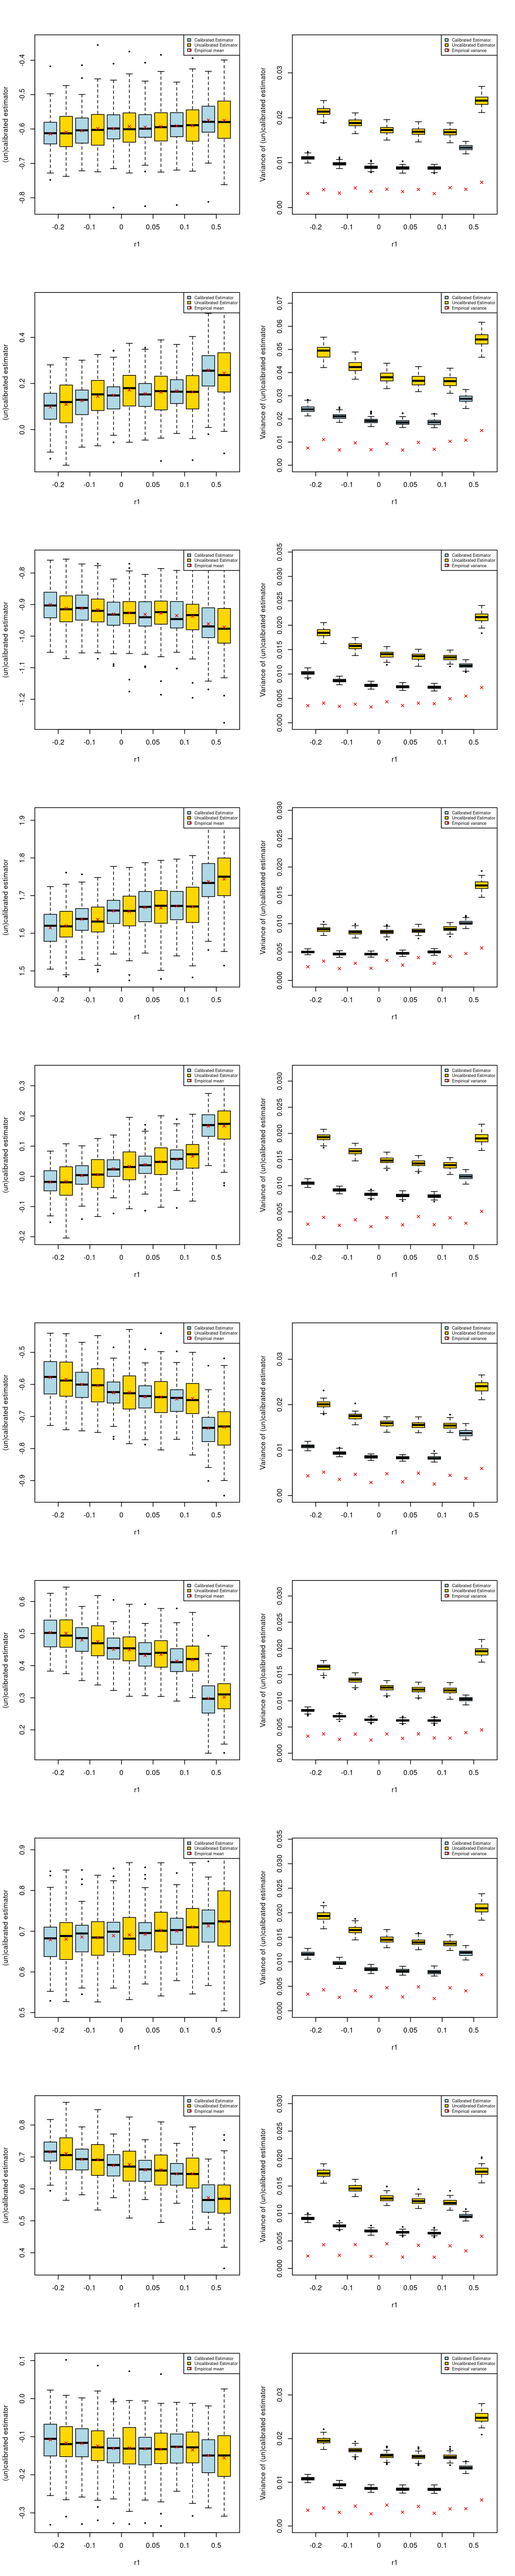
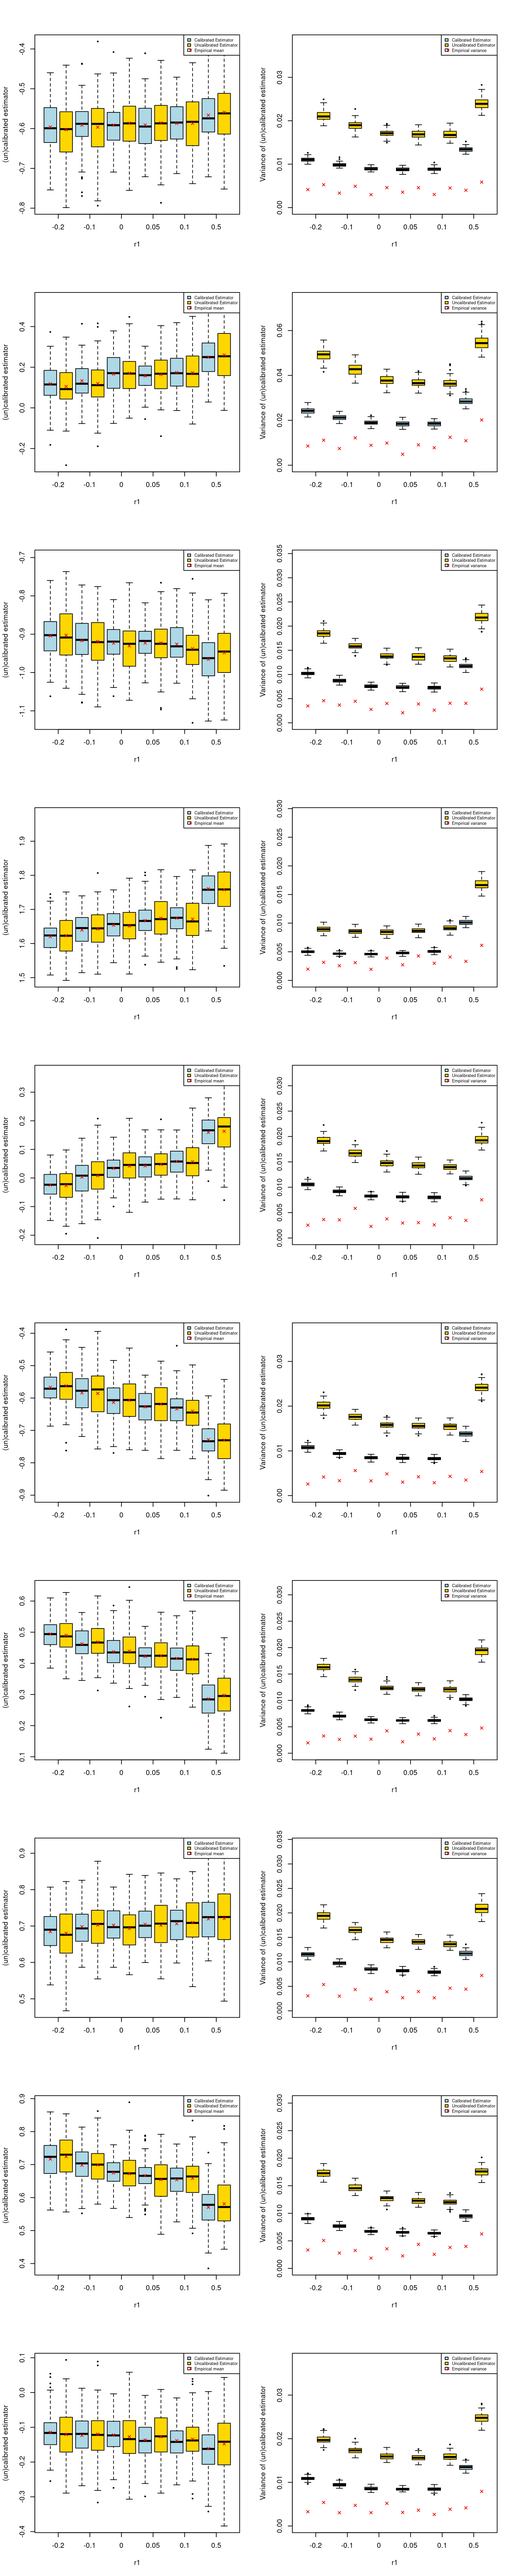
Build site.

diff --git a/docs/ukb_calibration.html b/docs/ukb_calibration.html
@@ -549,15 +549,15 @@ data/simulation202401/res.rds
 <div class="panel panel-default">
 <div class="panel-heading">
 <p class="panel-title">
-<a data-toggle="collapse" data-parent="#workflowr-checks" href="#strongRepositoryversionstrongahrefhttpsgithubcomyunqiyang0215simulationcalibratedmrtree0df308988b718faf7fb7c1ccf64821b8402b9214targetblank0df3089a">
+<a data-toggle="collapse" data-parent="#workflowr-checks" href="#strongRepositoryversionstrongahrefhttpsgithubcomyunqiyang0215simulationcalibratedmrtree30ae8748d4ddb8b93ddeef36fdb0cb225095d3cetargetblank30ae874a">
 <span class="glyphicon glyphicon-ok text-success"
 aria-hidden="true"></span> <strong>Repository version:</strong>
-<a href="https://github.com/yunqiyang0215/simulation-calibrated-mr/tree/0df308988b718faf7fb7c1ccf64821b8402b9214" target="_blank">0df3089</a>
+<a href="https://github.com/yunqiyang0215/simulation-calibrated-mr/tree/30ae8748d4ddb8b93ddeef36fdb0cb225095d3ce" target="_blank">30ae874</a>
 </a>
 </p>
 </div>
 <div
[2 lines of base64/hex data omitted]
 class="panel-collapse collapse">
 <div class="panel-body">
 <p>
@@ -567,7 +567,7 @@ reproducibility.
 </p>
 <p>
 The results in this page were generated with repository version
-<a href="https://github.com/yunqiyang0215/simulation-calibrated-mr/tree/0df308988b718faf7fb7c1ccf64821b8402b9214" target="_blank">0df3089</a>.
+<a href="https://github.com/yunqiyang0215/simulation-calibrated-mr/tree/30ae8748d4ddb8b93ddeef36fdb0cb225095d3ce" target="_blank">30ae874</a>.
 See the <em>Past versions</em> tab to see a history of the changes made
 to the R Markdown and HTML files.
 </p>
@@ -629,6 +629,40 @@ Message
 </tr>
 </thead>
 <tbody>
+<tr>
+<td>
+Rmd
+</td>
+<td>
+<a href="https://github.com/yunqiyang0215/simulation-calibrated-mr/blob/30ae8748d4ddb8b93ddeef36fdb0cb225095d3ce/analysis/ukb_calibration.Rmd" target="_blank">30ae874</a>
+</td>
+<td>
+yunqi yang
+</td>
+<td>
+2024-02-01
+</td>
+<td>
+wflow_publish("analysis/ukb_calibration.Rmd")
+</td>
+</tr>
+<tr>
+<td>
+html
+</td>
+<td>
+<a href="https://rawcdn.githack.com/yunqiyang0215/simulation-calibrated-mr/cc3ea41d9abfc38c4adbd03edf59707530dac00a/docs/ukb_calibration.html" target="_blank">cc3ea41</a>
+</td>
+<td>
+yunqi yang
+</td>
+<td>
+2024-02-01
+</td>
+<td>
+Build site.
+</td>
+</tr>
 <tr>
 <td>
 Rmd
@@ -1119,27 +1153,27 @@ Y_1 &amp;= Tb + r_1(Y^m+Y^f) + \epsilon\\
 Y_2 &amp;= \beta Y_1 + r_2(Y^m + Y^f) + \epsilon
 \end{split}
 \]</span></p>
-<pre class="r"><code>set.seed(1)
-p = 10
-b = matrix(rnorm(p, sd = 1), ncol = 1, nrow = p)
-bp = matrix(rnorm(p, sd = 1), ncol = 1, nrow = p)</code></pre>
-<pre class="r"><code>res1 = readRDS(&quot;/project2/mstephens/yunqiyang/calibrated_mr/simulation-calibrated-mr/data/simulation202401/res.rds&quot;) # previous simulation result
-res2 = readRDS(&quot;/project2/mstephens/yunqiyang/calibrated_mr/sim202401/res.rds&quot;) # current result
-res.Y1 = res1[[1]]
-res2.Y1 = res2[[1]]</code></pre>
+<pre class="r"><code>#res1 = readRDS(&quot;/project2/mstephens/yunqiyang/calibrated_mr/simulation-calibrated-mr/data/simulation202401/res.rds&quot;) # previous simulation result
+res = readRDS(&quot;/project2/mstephens/yunqiyang/calibrated_mr/sim202401/res.rds&quot;) # current result
+res.Y1 = res[[1]]</code></pre>
 <pre class="r"><code>combine_single_snp_stat = function(cond_indx, snp_indx, data.list, column_names){
   res = lapply(cond_indx, function(ind) data.list[[ind]][snp_indx, column_names])
   dat_combined = do.call(rbind, res)
   return(dat_combined)
 }</code></pre>
 </div>
-<div id="previous-simulation-results" class="section level3">
-<h3>1. Previous simulation results</h3>
+<div id="multiple-effects" class="section level3">
+<h3>1. Multiple effects:</h3>
+<pre class="r"><code>set.seed(1)
+p = 10
+b = matrix(rnorm(p, sd = 1), ncol = 1, nrow = p)
+bp = matrix(rnorm(p, sd = 1), ncol = 1, nrow = p)</code></pre>
 <pre class="r"><code>par(mfrow = c(10,2))
 r1 = unique(res.Y1$sim_data.r1)
 p = 10
+
 for (i in 1:p){
-  snp_dat_list = lapply(1:length(r1), function(k) combine_single_snp_stat(which(res.Y1$sim_data.r1 == r1[k]), i, data.list =res.Y1$calibration.Y1_cali, column_names = c(&quot;tau_cal&quot;, &quot;tau_raw&quot;)))
+  snp_dat_list = lapply(1:length(r1), function(k) combine_single_snp_stat(which(res.Y1$sim_data.r1 == r1[k] &amp; res.Y1$sim_effect.effect_type == &quot;multiple&quot;), i, data.list =res.Y1$calibration.Y1_cali, column_names = c(&quot;tau_cal&quot;, &quot;tau_raw&quot;)))
 
   dat_estimator &lt;- do.call(cbind, snp_dat_list)
   colors &lt;- rep(c(&quot;lightblue&quot;, &quot;gold1&quot;), length.out = ncol(dat_estimator))
@@ -1163,13 +1197,15 @@ for (i in 1:p){
   
   ### Plot variance
   empirical_var = apply(dat_estimator, 2, var)
-  snp_dat_list = lapply(1:length(r1), function(k) combine_single_snp_stat(which(res.Y1$sim_data.r1 == r1[k]), i, data.list =res.Y1$calibration.Y1_cali, column_names = c(&quot;var_tau_cal&quot;, &quot;var_tau_raw&quot;)))
+  snp_dat_list = lapply(1:length(r1), function(k) combine_single_snp_stat(which(res.Y1$sim_data.r1 == r1[k] &amp; res.Y1$sim_effect.effect_type == &quot;multiple&quot;), i, data.list =res.Y1$calibration.Y1_cali, column_names = c(&quot;var_tau_cal&quot;, &quot;var_tau_raw&quot;)))
+  
+  
   dat_estimator_var &lt;- do.call(cbind, snp_dat_list)
     
   colors &lt;- rep(c(&quot;lightblue&quot;, &quot;gold1&quot;), length.out = ncol(dat_estimator_var))
   boxplot(dat_estimator_var,
           #main = paste0(&quot;Exposure trait, r1=&quot;, r1[k]),
-          ylim = c(0, max(dat_estimator_var) + 0.01),
+          ylim = c(0, max(dat_estimator_var)+0.01),
           xlab = &quot;r1&quot;,
           ylab = &quot;Variance of (un)calibrated estimator&quot;,
           col = colors,
@@ -1211,6 +1247,17 @@ Date
 <tbody>
 <tr>
 <td>
+<a href="https://github.com/yunqiyang0215/simulation-calibrated-mr/blob/cc3ea41d9abfc38c4adbd03edf59707530dac00a/docs/figure/ukb_calibration.Rmd/unnamed-chunk-4-1.png" target="_blank">cc3ea41</a>
+</td>
+<td>
+yunqi yang
+</td>
+<td>
+2024-02-01
+</td>
+</tr>
+<tr>
+<td>
 <a href="https://github.com/yunqiyang0215/simulation-calibrated-mr/blob/f71295dcde89f3cba7525a47443430e3f0c51c50/docs/figure/ukb_calibration.Rmd/unnamed-chunk-4-1.png" target="_blank">f71295d</a>
 </td>
 <td>
@@ -1247,19 +1294,17 @@ yunqiyang0215
 </div>
 </div>
 </div>
-<div id="current-simulation-results" class="section level3">
-<h3>2. Current simulation results</h3>
-<div id="multiple-effects" class="section level4">
-<h4>2.1 Multiple effects:</h4>
+<div id="single-effect" class="section level3">
+<h3>2. Single effect:</h3>
 <pre class="r"><code>set.seed(1)
-p = 10
-b = matrix(rnorm(p, sd = 1), ncol = 1, nrow = p)
-bp = matrix(rnorm(p, sd = 1), ncol = 1, nrow = p)</code></pre>
+b = bp = matrix(rep(0, p), ncol = 1, nrow = p)
+b[1,1] = rnorm(1)
+bp[1,1] = rnorm(1)</code></pre>
 <pre class="r"><code>par(mfrow = c(10,2))
-r1 = unique(res2.Y1$sim_data.r1)
+r1 = unique(res.Y1$sim_data.r1)
 
 for (i in 1:p){
-  snp_dat_list = lapply(1:length(r1), function(k) combine_single_snp_stat(which(res2.Y1$sim_data.r1 == r1[k] &amp; res2.Y1$sim_effect.effect_type == &quot;multiple&quot;), i, data.list =res2.Y1$calibration.Y1_cali, column_names = c(&quot;tau_cal&quot;, &quot;tau_raw&quot;)))
+  snp_dat_list = lapply(1:length(r1), function(k) combine_single_snp_stat(which(res.Y1$sim_data.r1 == r1[k] &amp; res.Y1$sim_effect.effect_type == &quot;single&quot;), i, data.list =res.Y1$calibration.Y1_cali, column_names = c(&quot;tau_cal&quot;, &quot;tau_raw&quot;)))
 
   dat_estimator &lt;- do.call(cbind, snp_dat_list)
   colors &lt;- rep(c(&quot;lightblue&quot;, &quot;gold1&quot;), length.out = ncol(dat_estimator))
@@ -1283,13 +1328,15 @@ for (i in 1:p){
   
   ### Plot variance
   empirical_var = apply(dat_estimator, 2, var)
-  snp_dat_list = lapply(1:length(r1), function(k) combine_single_snp_stat(which(res2.Y1$sim_data.r1 == r1[k] &amp; res2.Y1$sim_effect.effect_type == &quot;multiple&quot;), i, data.list =res2.Y1$calibration.Y1_cali, column_names = c(&quot;var_tau_cal&quot;, &quot;var_tau_raw&quot;)))
+  snp_dat_list = lapply(1:length(r1), function(k) combine_single_snp_stat(which(res.Y1$sim_data.r1 == r1[k] &amp; res.Y1$sim_effect.effect_type == &quot;single&quot;), i, data.list =res.Y1$calibration.Y1_cali, column_names = c(&quot;var_tau_cal&quot;, &quot;var_tau_raw&quot;)))
+  
+  
   dat_estimator_var &lt;- do.call(cbind, snp_dat_list)
     
   colors &lt;- rep(c(&quot;lightblue&quot;, &quot;gold1&quot;), length.out = ncol(dat_estimator_var))
   boxplot(dat_estimator_var,
           #main = paste0(&quot;Exposure trait, r1=&quot;, r1[k]),
-          ylim = c(0, 0.06),
+          ylim = c(0, max(dat_estimator_var)+0.01),
           xlab = &quot;r1&quot;,
           ylab = &quot;Variance of (un)calibrated estimator&quot;,
           col = colors,
@@ -1329,6 +1376,17 @@ Date
 </tr>
 </thead>
 <tbody>
+<tr>
+<td>
+<a href="https://github.com/yunqiyang0215/simulation-calibrated-mr/blob/cc3ea41d9abfc38c4adbd03edf59707530dac00a/docs/figure/ukb_calibration.Rmd/unnamed-chunk-6-1.png" target="_blank">cc3ea41</a>
+</td>
+<td>
+yunqi yang
+</td>
+<td>
+2024-02-01
+</td>
+</tr>
 <tr>
 <td>
 <a href="https://github.com/yunqiyang0215/simulation-calibrated-mr/blob/2c2f133aefb758099f4e24e8d4b0737f29316810/docs/figure/ukb_calibration.Rmd/unnamed-chunk-6-1.png" target="_blank">2c2f133</a>
@@ -1399,141 +1457,6 @@ yunqiyang0215
 </table>
 </div>
 </div>
-<pre class="r"><code>par(mfrow = c(10,2))
-r1 = unique(res2.Y1$sim_data.r1)
-
-for (i in 1:p){
-  snp_dat_list = lapply(1:length(r1), function(k) combine_single_snp_stat(which(res2.Y1$sim_data.r1 == r1[k] &amp; res2.Y1$sim_effect.effect_type == &quot;single&quot;), i, data.list =res2.Y1$calibration.Y1_cali, column_names = c(&quot;tau_cal&quot;, &quot;tau_raw&quot;)))
-
-  dat_estimator &lt;- do.call(cbind, snp_dat_list)
-  colors &lt;- rep(c(&quot;lightblue&quot;, &quot;gold1&quot;), length.out = ncol(dat_estimator))
-  boxplot(dat_estimator,
-          #main = paste0(&quot;Exposure trait, r1=&quot;, r1[k]),
-          xlab = &quot;r1&quot;,
-          ylab = &quot;(un)calibrated estimator&quot;,
-          col = colors,
-          outpch = 20, # This changes the outlier point type to solid circle
-          outcex = 0.5,
-          xaxt = &quot;n&quot;)
-  points(1:ncol(dat_estimator), colMeans(dat_estimator), pch = 4, cex = 0.8, col = &quot;red2&quot;)
-  legend(&quot;topright&quot;,
-       legend = c(&quot;Calibrated Estimator&quot;, &quot;Uncalibrated Estimator&quot;, &quot;Empirical mean&quot;),
-       fill = c(&quot;lightblue&quot;, &quot;gold1&quot;, NA),  
-       pch = c(NA, NA, 4),  
-       col = c(NA, NA, &quot;red2&quot;),  
-       cex = 0.6)  
-  axis(1, at=seq(1.5, by=2, length.out=length(r1)), labels=r1)
-
-  
-  ### Plot variance
-  empirical_var = apply(dat_estimator, 2, var)
-  snp_dat_list = lapply(1:length(r1), function(k) combine_single_snp_stat(which(res2.Y1$sim_data.r1 == r1[k] &amp; res2.Y1$sim_effect.effect_type == &quot;single&quot;), i, data.list =res2.Y1$calibration.Y1_cali, column_names = c(&quot;var_tau_cal&quot;, &quot;var_tau_raw&quot;)))
-  
-  
-  dat_estimator_var &lt;- do.call(cbind, snp_dat_list)
-    
-  colors &lt;- rep(c(&quot;lightblue&quot;, &quot;gold1&quot;), length.out = ncol(dat_estimator_var))
-  boxplot(dat_estimator_var,
-          #main = paste0(&quot;Exposure trait, r1=&quot;, r1[k]),
-          ylim = c(0, 0.06),
-          xlab = &quot;r1&quot;,
-          ylab = &quot;Variance of (un)calibrated estimator&quot;,
-          col = colors,
-          outpch = 20, 
-          outcex = 0.5,
-          xaxt = &quot;n&quot;)
-  points(1:ncol(dat_estimator_var), empirical_var, pch = 4, cex = 0.8, col = &quot;red2&quot;)
-  legend(&quot;topright&quot;,
-       legend = c(&quot;Calibrated Estimator&quot;, &quot;Uncalibrated Estimator&quot;, &quot;Empirical variance&quot;),
-       fill = c(&quot;lightblue&quot;, &quot;gold1&quot;, NA),  
-       pch = c(NA, NA, 4),  
-       col = c(NA, NA, &quot;red2&quot;),  
-       cex = 0.6)  
-  r_values &lt;- c(-0.20, -0.10, 0.00, 0.05, 0.10, 0.50) 
-  axis(1, at=seq(1.5, by=2, length.out=length(r1)), labels=r1)
-}</code></pre>
-<p><img src="figure/ukb_calibration.Rmd/unnamed-chunk-7-1.png" width="960" style="display: block; margin: auto;" /></p>
-<pre class="r"><code>par(mfrow = c(1,2))
-r1 = unique(res.Y1$sim_data.r1)
-for (k in 1:length(r1)){
-  cond_indx = which(res.Y1$sim_data.r1 == r1[k])
-  
-  ### Plot mean
-  snp_dat_list = lapply(1:p, function(i) 
-  
-  dat_estimator &lt;- do.call(cbind, snp_dat_list)
-  print(dat_estimator)
-  colors &lt;- rep(c(&quot;lightblue&quot;, &quot;gold1&quot;), length.out = ncol(dat_estimator))
-  boxplot(dat_estimator,
-          main = paste0(&quot;Exposure trait, r1=&quot;, r1[k]),
-          xlab = &quot;&quot;,
-          ylab = &quot;(un)calibrated estimator&quot;,
-          col = colors,
-          outpch = 20, # This changes the outlier point type to solid circle
-          outcex = 0.5,
-          xaxt = &quot;n&quot;)
-  # Add true b to plot
-  b.true &lt;- unlist(lapply(1:p, function(i) rep(b[i],2)))
-  empirical_var = apply(dat_estimator, 2, var)
-  points(1:ncol(dat_estimator), b.true, pch = 4, cex = 0.8, col = &quot;red2&quot;)
-  legend(&quot;topright&quot;,
-       legend = c(&quot;Calibrated Estimator&quot;, &quot;Uncalibrated Estimator&quot;, &quot;True effect size&quot;),
-       fill = c(&quot;lightblue&quot;, &quot;gold1&quot;, NA),  
-       pch = c(NA, NA, 4),  
-       col = c(NA, NA, &quot;red2&quot;),  
-       cex = 0.6)  
-
-# Plot variance
-  
-  ### Plot variance
-  snp_dat_list = lapply(1:p, function(i) combine_single_snp_stat(cond_indx, i, data.list =res.Y1$calibration.Y1_cali, column_names = c(&quot;var_tau_cal&quot;, &quot;var_tau_raw&quot;)))
-  dat_estimator_var &lt;- do.call(cbind, snp_dat_list)
-  
-  colors &lt;- rep(c(&quot;lightblue&quot;, &quot;gold1&quot;), length.out = ncol(dat_estimator_var))
-  boxplot(dat_estimator_var,
-          main = paste0(&quot;Exposure trait, r1=&quot;, r1[k]),
-          ylim = c(0, 0.06),
-          xlab = &quot;&quot;,
-          ylab = &quot;Variance of (un)calibrated estimator&quot;,
-          col = colors,
-          outpch = 20, 
-          outcex = 0.5,
-          xaxt = &quot;n&quot;)
-  points(1:ncol(dat_estimator_var), empirical_var, pch = 4, cex = 0.8, col = &quot;red2&quot;)
-  legend(&quot;topright&quot;,
-       legend = c(&quot;Calibrated Estimator&quot;, &quot;Uncalibrated Estimator&quot;, &quot;Empirical variance&quot;),
-       fill = c(&quot;lightblue&quot;, &quot;gold1&quot;, NA),  
-       pch = c(NA, NA, 4),  
-       col = c(NA, NA, &quot;red2&quot;),  
-       cex = 0.6)  
-}</code></pre>
-<pre class="r"><code>res = readRDS(&quot;./data/simulation202401/res.rds&quot;)
-
-r1 = c(-0.2, -0.1, 0, 0.05, 0.1, 0.5)
-r2 = c(-0.5, -0.1, 0.1, 0.5, 1)
-
-setting = c()
-for (i in 1:length(r2)){
-  for (j in 1:length(r1)){
-    s = paste0( &quot;r2=&quot;, r2[i], &quot;,r1=&quot;, r1[j])
-    setting = c(setting, s)
-  }
-}
-
-for (i in 1:length(setting)){
-  dat = res$calibration.Y1_cali[[i]]
-  var_reduction = (dat[,4] - dat[, 3])/dat[,4]
-  plot(var_reduction, ylab = setting[i], main = &quot;Exposure trait&quot;)
-}
-
-dat_var_reduction = matrix(NA, ncol = length(res$calibration.Y1_cali), nrow = 10)
-for (i in 1:length(setting)){
-  dat = res$calibration.Y1_cali[[i]]
-  var_reduction = (dat[,4] - dat[, 3])/dat[,4]
-  dat_var_reduction[, i] = var_reduction
-}
-
-boxplot(dat_var_reduction, main = &quot;exposure trait&quot;)</code></pre>
 <br>
 <p>
 <button type="button" class="btn btn-default btn-workflowr btn-workflowr-sessioninfo" data-toggle="collapse" data-target="#workflowr-sessioninfo" style="display: block;">
@@ -1575,7 +1498,6 @@ loaded via a namespace (and not attached):
 [37] whisker_0.4      ps_1.7.0         promises_1.2.0.1 htmltools_0.5.2 
 [41] ellipsis_0.3.2   httpuv_1.6.5     utf8_1.2.2       stringi_1.7.6   
 [45] crayon_1.5.1    </code></pre>
-</div>
 </div>
 </div>
 
